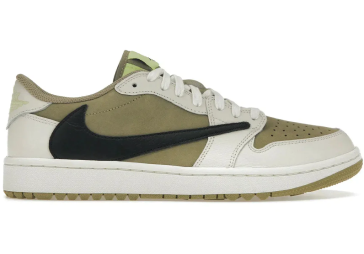
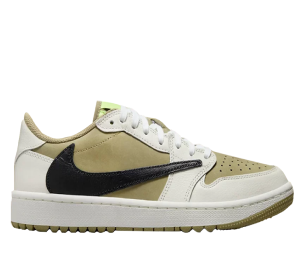
make some changes

diff --git a/fifth_week/pages/index9.html b/fifth_week/pages/index9.html
@@ -22,28 +22,30 @@
     <main class="main">
         <div class="main__container">
             <div class="main__basic">
-                <img class="main__img" src="../images/jordan_low_golf.png" alt="Jordan 1 Retro Low Golf"/>
+                <img class="main__img" src="../images/jordan_low_golf-big.png" alt="Jordan 1 Retro Low Golf"/>
                 <h1 class="main__title">Jordan 1 Retro Low Golf</h1>
                 <h2 class="main__subtitle">Travis Scott Neutral Olive</h2>
                 <div class="main__text-container">
                     <div class="main__text-left-container">
-                        <p class="main__text-left">??</p>
-                        <p class="main__text-left">??</p>
-                        <p class="main__text-left">??</p>
+                        <p class="main__text-left">Майкл Джордан, будущий основатель компании Air Jordan, родился в 1963 году в Бруклине, Нью-Йорк. В 1984 году он подписал контракт с командой Национальной баскетбольной ассоциации (НБА) "Чикаго Буллз". С самого начала своей карьеры в НБА Джордан демонстрировал свои выдающиеся способности на площадке.</p>
+                        <p class="main__text-left">В 1985 году компания Nike выпустила кроссовки "Air Force 1", которые были первыми баскетбольными кроссовками с воздушной подушкой. Однако, Джордан и его тренер Фил Джексон считали, что эти кроссовки не обеспечивают необходимую поддержку и амортизацию для игры на высоком уровне.
+                            После очередной игры Джордан попросил своего друга и партнера по команде, Трента Диджея, помочь ему найти кроссовки, которые лучше подходили бы для его стиля игры.</p>
+                        <p class="main__text-left">В результате они нашли пару кроссовок "Converse All Star", которые Джордан решил использовать в следующих играх.
+                            Однако, вскоре после этого, Фил Джексон увидел, что Джордан играет в кроссовках "Converse", и решил помочь ему найти подходящую обувь для игры. Он связался с Nike и предложил им создать специальную модель для Джордана, которая бы обеспечивала лучшую поддержку и амортизацию.</p>
                     </div>
                     <div class="main__text-right-container">
                         <h2 class="main__right-title">О кроссах</h2>
                         <div class="main__text-right">
                             <p class="main__name-right">Дата выхода</p>
-                            <p class="main__name-right">??</p>
+                            <p class="main__name-right">15/12/2021</p>
                         </div>
                         <div class="main__text-right">
                             <p class="main__name-right">Розничная цена</p>
-                            <p class="main__name-right">??€</p>
+                            <p class="main__name-right">320€</p>
                         </div>
                         <div class="main__text-right">
                             <p class="main__name-right">Материалы</p>
-                            <p class="main__name-right">??</p>
+                            <p class="main__name-right">Кожа, текстиль</p>
                         </div>
                     </div>
                 </div>
@@ -63,7 +65,7 @@
                     </div>
                     </a>
                     <a class="main__card" href="../pages/index8.html">
-                    <div class="main__offer-cars">
+                    <div class="main__offer-card">
                         <div class="sneaker">
                             <img class="sneaker__img" alt="UGG Classic Ultra Mini Boot" src="../images/ugg_classic.png"/>
                             <div class="card__info">

diff --git a/fifth_week/pages/index7.html b/fifth_week/pages/index7.html
@@ -22,28 +22,29 @@
     <main class="main">
         <div class="main__container">
             <div class="main__basic">
-                <img class="main__img" src="../images/adidas_campus.png" alt="adidas Campus 00s"/>
+                <img class="main__img" src="../images/adidas_campus-big.png" alt="adidas Campus 00s"/>
                 <h1 class="main__title">adidas Campus 00s</h1>
                 <h2 class="main__subtitle">Core Black</h2>
                 <div class="main__text-container">
                     <div class="main__text-left-container">
-                        <p class="main__text-left">??</p>
-                        <p class="main__text-left">??</p>
-                        <p class="main__text-left">??</p>
+                        <p class="main__text-left">Adidas AG (сокращенно от "Allround Development of Industrial Sport", что означает "Всестороннее развитие индустриального спорта") была основана 18 августа 1949 года в Германии братьями Адольфом (Ади) Дасслером и Рудольфом (Руди) Дасслер.</p>
+                        <p class="main__text-left">Изначально они планировали открыть магазин по продаже спортивной обуви, но вскоре поняли, что их страсть - это создание собственной уникальной обуви для спорта. В 1920-х годах братья Дасслер основали мастерскую по изготовлению обуви, которая стала очень популярной среди спортсменов из-за своего высокого качества и комфорта. После Второй мировой войны Ади и Руди решили продолжить свое дело и создать собственную компанию. Однако в 1952 году между братьями возникли разногласия, и они разделили компанию на две отдельные фирмы: Adidas и Puma. С тех пор Adidas и Puma стали главными конкурентами в мире спортивной индустрии.</p>
+                        <p class="main__text-left">В течение 1960-х годов Adidas начала активно сотрудничать со спортивными звездами, такими как футболист Франц Беккенбауэр и легкоатлет Бубба Морган, чтобы продвигать свою продукцию. Это помогло Adidas стать одной из самых узнаваемых спортивных марок в мире.
+                            В середине 1970-х компания начала расширять свою деятельность за пределы Европы, открыв свои первые магазины в США, Канаде и Австралии. В 1980-е годы Adidas продолжила свою экспансию на мировые рынки, особенно в страны Азии и Латинской Америки.</p>
                     </div>
                     <div class="main__text-right-container">
                         <h2 class="main__right-title">О кроссах</h2>
                         <div class="main__text-right">
                             <p class="main__name-right">Дата выхода</p>
-                            <p class="main__name-right">??</p>
+                            <p class="main__name-right">12/09/2022</p>
                         </div>
                         <div class="main__text-right">
                             <p class="main__name-right">Розничная цена</p>
-                            <p class="main__name-right">??€</p>
+                            <p class="main__name-right">125€</p>
                         </div>
                         <div class="main__text-right">
                             <p class="main__name-right">Материалы</p>
-                            <p class="main__name-right">??</p>
+                            <p class="main__name-right">Текстиль, замша</p>
                         </div>
                     </div>
                 </div>

diff --git a/fifth_week/pages/index4.html b/fifth_week/pages/index4.html
@@ -27,23 +27,24 @@
                 <h2 class="main__subtitle">Stone Sage</h2>
                 <div class="main__text-container">
                     <div class="main__text-left-container">
-                        <p class="main__text-left">??</p>
-                        <p class="main__text-left">??</p>
-                        <p class="main__text-left">??</p>
+                        <p class="main__text-left">Adidas AG (сокращенно от "Allround Development of Industrial Sport", что означает "Всестороннее развитие индустриального спорта") была основана 18 августа 1949 года в Германии братьями Адольфом (Ади) Дасслером и Рудольфом (Руди) Дасслер.</p>
+                        <p class="main__text-left">Изначально они планировали открыть магазин по продаже спортивной обуви, но вскоре поняли, что их страсть - это создание собственной уникальной обуви для спорта. В 1920-х годах братья Дасслер основали мастерскую по изготовлению обуви, которая стала очень популярной среди спортсменов из-за своего высокого качества и комфорта. После Второй мировой войны Ади и Руди решили продолжить свое дело и создать собственную компанию. Однако в 1952 году между братьями возникли разногласия, и они разделили компанию на две отдельные фирмы: Adidas и Puma. С тех пор Adidas и Puma стали главными конкурентами в мире спортивной индустрии.</p>
+                        <p class="main__text-left">В течение 1960-х годов Adidas начала активно сотрудничать со спортивными звездами, такими как футболист Франц Беккенбауэр и легкоатлет Бубба Морган, чтобы продвигать свою продукцию. Это помогло Adidas стать одной из самых узнаваемых спортивных марок в мире.
+                            В середине 1970-х компания начала расширять свою деятельность за пределы Европы, открыв свои первые магазины в США, Канаде и Австралии. В 1980-е годы Adidas продолжила свою экспансию на мировые рынки, особенно в страны Азии и Латинской Америки.</p>
                     </div>
                     <div class="main__text-right-container">
                         <h2 class="main__right-title">О кроссах</h2>
                         <div class="main__text-right">
                             <p class="main__name-right">Дата выхода</p>
-                            <p class="main__name-right">??</p>
+                            <p class="main__name-right">10/01/2021</p>
                         </div>
                         <div class="main__text-right">
                             <p class="main__name-right">Розничная цена</p>
-                            <p class="main__name-right">??€</p>
+                            <p class="main__name-right">99€</p>
                         </div>
                         <div class="main__text-right">
                             <p class="main__name-right">Материалы</p>
-                            <p class="main__name-right">??</p>
+                            <p class="main__name-right">Резина</p>
                         </div>
                     </div>
                 </div>

diff --git a/fifth_week/pages/index8.html b/fifth_week/pages/index8.html
@@ -22,28 +22,28 @@
     <main class="main">
         <div class="main__container">
             <div class="main__basic">
-                <img class="main__img" src="../images/ugg_classic.png" alt="UGG Classic Ultra Mini Boot"/>
+                <img class="main__img" src="../images/ugg_classic-big.png" alt="UGG Classic Ultra Mini Boot"/>
                 <h1 class="main__title">UGG Classic Ultra Mini Boot</h1>
                 <h2 class="main__subtitle">Chestnut (Women's)</h2>
                 <div class="main__text-container">
                     <div class="main__text-left-container">
-                        <p class="main__text-left">??</p>
-                        <p class="main__text-left">??</p>
-                        <p class="main__text-left">??</p>
+                        <p class="main__text-left">История компании UGG началась в 1978 году, когда Брайан Скун и Джефф Грин основали компанию в Канаде. Их первоначальная идея заключалась в создании высококачественной обуви из овчины для спортсменов и активного отдыха. В течение первых нескольких лет UGG быстро завоевала популярность среди любителей активного отдыха, благодаря своей комфортной и стильной обуви.</p>
+                        <p class="main__text-left">Современный UGG Сегодня UGG является одним из самых узнаваемых и популярных брендов обуви в мире. Компания продолжает развивать и расширять свой ассортимент, предлагая обувь, одежду и аксессуары из различных материалов, включая искусственную овчину и другие синтетические материалы.</p>
+                        <p class="main__text-left">Несмотря на продолжающуюся критику со стороны защитников окружающей среды и животных, UGG продолжает развиваться и адаптироваться к новым требованиям и тенденциям. Компания также активно работает над улучшением условий труда своих работников и повышением экологической устойчивости своих производственных процессов.</p>
                     </div>
                     <div class="main__text-right-container">
                         <h2 class="main__right-title">О кроссах</h2>
                         <div class="main__text-right">
                             <p class="main__name-right">Дата выхода</p>
-                            <p class="main__name-right">??</p>
+                            <p class="main__name-right">03/03/2023</p>
                         </div>
                         <div class="main__text-right">
                             <p class="main__name-right">Розничная цена</p>
-                            <p class="main__name-right">??€</p>
+                            <p class="main__name-right">499€</p>
                         </div>
                         <div class="main__text-right">
                             <p class="main__name-right">Материалы</p>
-                            <p class="main__name-right">??</p>
+                            <p class="main__name-right">Замша, резина</p>
                         </div>
                     </div>
                 </div>

diff --git a/fifth_week/style.css b/fifth_week/style.css
@@ -186,7 +186,13 @@ footer{
 .main__card:hover {
     transform: scale(1.2);
     transform: translateY(-10px);
+    
+    
 }
+
+.main__card:hover::after {
+    opacity: 1;
+  }
 
 @media screen and (max-width: 1150px){
     .header__container{

diff --git a/fifth_week/style1.css b/fifth_week/style1.css
@@ -184,6 +184,7 @@ a{
 
 .sneaker__img{
     border-radius: 12px;
+    height: 254px;
 }
 
 .card__info{
